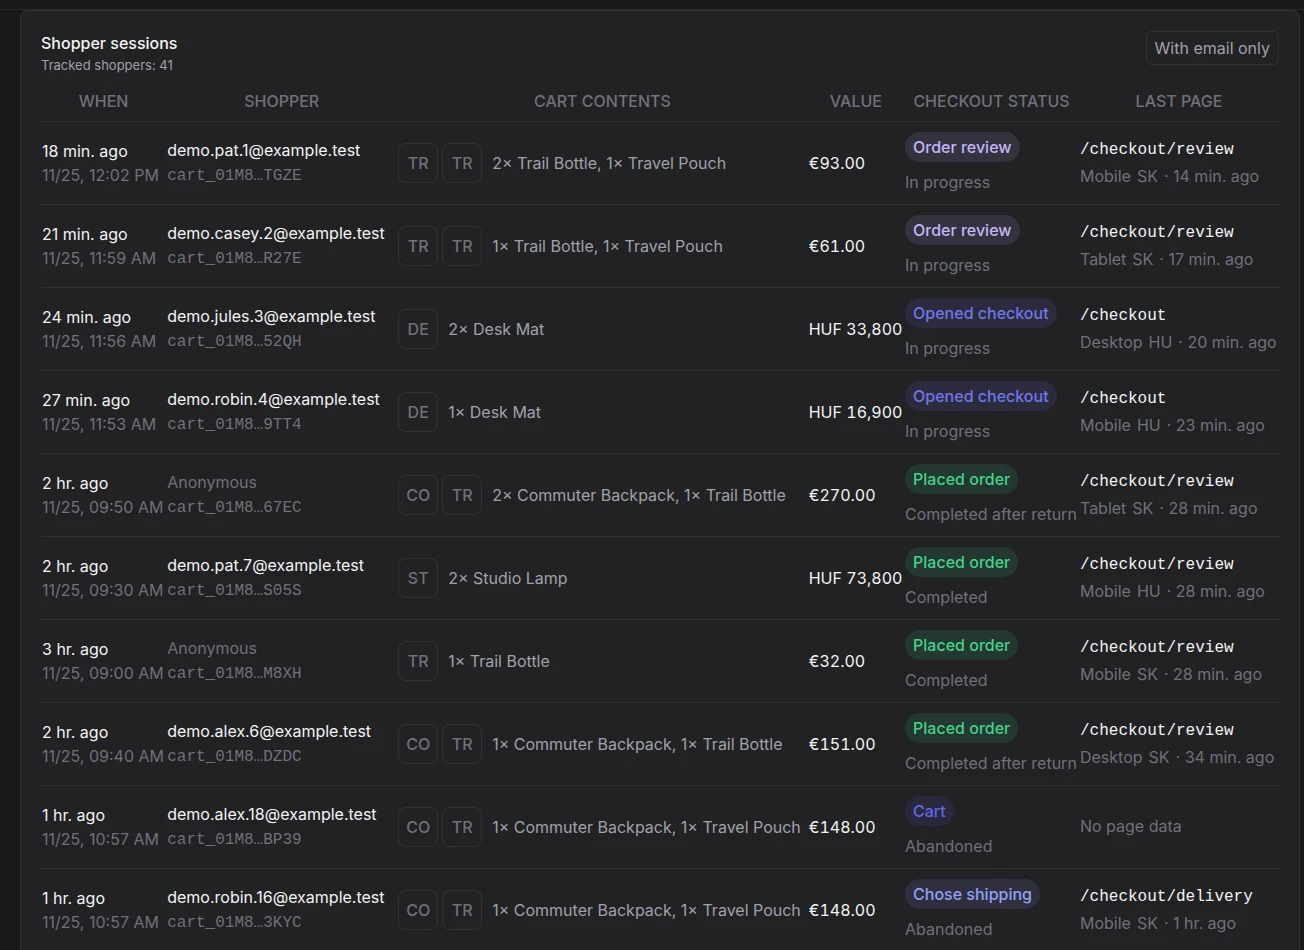
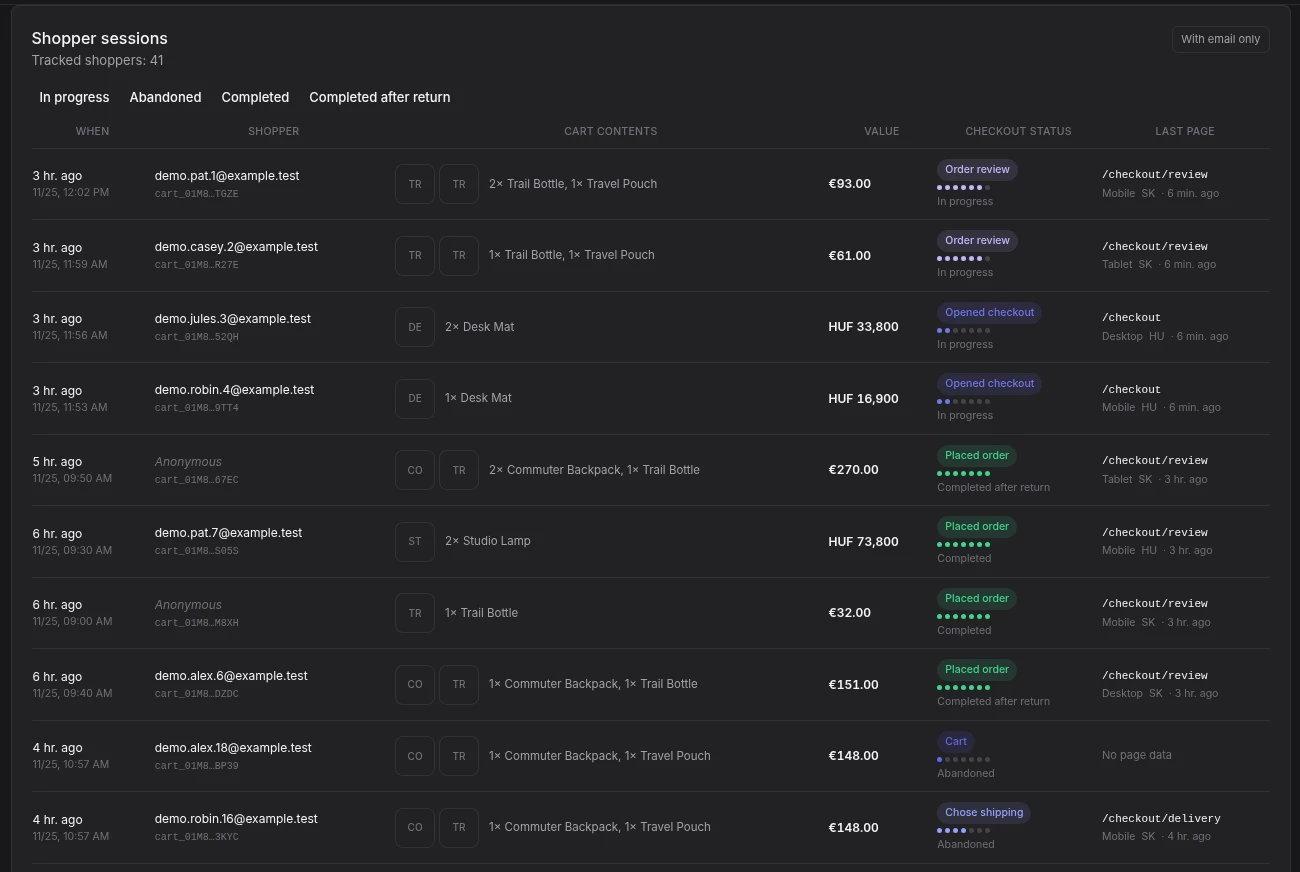
Make checkout sessions easier to triage by status (#6)
* Make checkout sessions easier to triage by status

Combine a localized status filter with the existing funnel and email filters without changing dashboard totals. Preserve diagnostic context for shops that limit raw cart reads.

Tested: 163 unit tests, typecheck, build, package contract and all four statuses in Medusa Admin with Ego Chromium.

* Keep filtered shopper counts explicit and test the filter rules

Match the count and screen-reader summary to the active filters. Verify each status, combined filtering, empty results and reset in a focused unit suite.

---------

diff --git a/src/admin/routes/checkout-tracker/page.tsx b/src/admin/routes/checkout-tracker/page.tsx
@@ -9,10 +9,11 @@ import { useCheckoutTranslation } from "../../lib/checkout-i18n"
 import { Funnel } from "./funnel"
 import { AbandonedProducts, ExitPaths } from "./side-cards"
 import { SaleRecommendations } from "./sale-recommendations"
+import { matchesSessionFilters } from "./session-filters"
 import { SessionTable } from "./session-table"
 import { WinBack } from "./win-back"
 import { formatCount, formatMoney, formatPercent } from "./format"
-import type { Stage, TrackerResponse } from "./types"
+import type { CheckoutStatus, Stage, TrackerResponse } from "./types"
 
 /**
  * Checkout tracker — where shoppers give up between "added to cart" and
@@ -30,6 +31,7 @@ import type { Stage, TrackerResponse } from "./types"
 
 const RANGES = [7, 14, 30, 90] as const
 type RangeDays = (typeof RANGES)[number]
+const SESSION_STATUSES = ["active", "abandoned", "completed", "recovered"] as const
 
 const fetchTracker = async (days: number): Promise<TrackerResponse> => {
   const response = await fetch(
@@ -49,7 +51,7 @@ const Card = ({
   children,
 }: {
   title: string
-  sub: string
+  sub: ReactNode
   action?: ReactNode
   children: ReactNode
 }) => (
@@ -133,6 +135,7 @@ const CheckoutTrackerPage = () => {
   const count = (value: number) => formatCount(value, locale)
   const [days, setDays] = useState<RangeDays>(7)
   const [stageFilter, setStageFilter] = useState<Stage | null>(null)
+  const [statusFilter, setStatusFilter] = useState<CheckoutStatus | null>(null)
   const [onlyContactable, setOnlyContactable] = useState(false)
   const [promotionCode, setPromotionCode] = useState("")
 
@@ -153,12 +156,10 @@ const CheckoutTrackerPage = () => {
   // and the row the operator sees.
   const visitors = useMemo(() => {
     if (!data) return []
-    return data.visitors.filter(({ lead }) => {
-      if (stageFilter && lead.stage !== stageFilter) return false
-      if (onlyContactable && !lead.email) return false
-      return true
-    })
-  }, [data, stageFilter, onlyContactable])
+    return data.visitors.filter((visitor) =>
+      matchesSessionFilters(visitor, stageFilter, statusFilter, onlyContactable)
+    )
+  }, [data, stageFilter, statusFilter, onlyContactable])
 
   const contactable = useMemo(
     () =>
@@ -209,7 +210,9 @@ const CheckoutTrackerPage = () => {
         <>
           {data.scan.capped ? (
             <Notice>
-              {t("sample", { limit: count(data.scan.cap) })}
+              {data.scan.limited_by === "raw_cart_cap" && data.scan.raw_cap !== undefined
+                ? t("rawSample", { limit: count(data.scan.raw_cap) })
+                : t("sample", { limit: count(data.scan.carts) })}
             </Notice>
           ) : null}
 
@@ -318,9 +321,15 @@ const CheckoutTrackerPage = () => {
           <Card
             title={t("sessions")}
             sub={
-              stageFilter
-                ? t("lastStage", { stage: t(`stage.${stageFilter}`), value: count(visitors.length) })
-                : t("allSessions", { value: count(visitors.length) })
+              <span aria-live="polite">
+                {stageFilter
+                  ? t("lastStage", { stage: t(`stage.${stageFilter}`), value: count(visitors.length) })
+                  : statusFilter || onlyContactable
+                    ? count(visitors.length)
+                    : t("allSessions", { value: count(visitors.length) })}
+                {statusFilter ? ` · ${t(`status.${statusFilter}`)}` : null}
+                {onlyContactable ? ` · ${t("emailOnly")}` : null}
+              </span>
             }
             action={
               <button
@@ -337,6 +346,20 @@ const CheckoutTrackerPage = () => {
               </button>
             }
           >
+            <div role="group" aria-label={t("checkoutStatus")} className="mt-3 flex flex-wrap gap-1">
+              {SESSION_STATUSES.map((status) => (
+                <Button
+                  key={status}
+                  type="button"
+                  size="small"
+                  variant={statusFilter === status ? "secondary" : "transparent"}
+                  aria-pressed={statusFilter === status}
+                  onClick={() => setStatusFilter((current) => current === status ? null : status)}
+                >
+                  {t(`status.${status}`)}
+                </Button>
+              ))}
+            </div>
             <SessionTable visitors={visitors} now={now} />
           </Card>
 

diff --git a/src/admin/routes/checkout-tracker/__tests__/session-filters.unit.spec.ts b/src/admin/routes/checkout-tracker/__tests__/session-filters.unit.spec.ts
@@ -1,0 +1,31 @@
+import { matchesSessionFilters } from "../session-filters"
+import type { CheckoutStatus, SessionRow } from "../types"
+
+const visitor = (status: CheckoutStatus, stage: SessionRow["stage"], email: string | null) =>
+  ({ status, lead: { stage, email } })
+
+const visitors = [
+  visitor("active", "review", "active@example.test"),
+  visitor("abandoned", "delivery", "abandoned@example.test"),
+  visitor("abandoned", "delivery", null),
+  visitor("abandoned", "cart", "cart@example.test"),
+  visitor("completed", "completed", "completed@example.test"),
+  visitor("recovered", "completed", "recovered@example.test"),
+]
+
+test.each(["active", "abandoned", "completed", "recovered"] as const)(
+  "matches only %s when it is selected without a stage or email filter",
+  (status) => {
+    expect(visitors.filter((row) => matchesSessionFilters(row, null, status, false)))
+      .toEqual(visitors.filter((row) => row.status === status))
+  }
+)
+
+test("combines the last stage, status and email filters without changing unfiltered rows", () => {
+  expect(visitors.filter((row) => matchesSessionFilters(row, "delivery", "abandoned", true)))
+    .toEqual([visitors[1]])
+  expect(visitors.filter((row) => matchesSessionFilters(row, "delivery", "recovered", true)))
+    .toEqual([])
+  expect(visitors.filter((row) => matchesSessionFilters(row, null, null, false)))
+    .toEqual(visitors)
+})

diff --git a/src/admin/routes/checkout-tracker/types.ts b/src/admin/routes/checkout-tracker/types.ts
@@ -100,7 +100,14 @@ export type TrackerResponse = {
   abandoned_products: AbandonedProduct[]
   exit_paths: Array<{ path: string; count: number }>
   sale_candidates: SaleCandidate[]
-  scan: { carts: number; cap: number; capped: boolean; orders_capped: boolean }
+  scan: {
+    carts: number
+    cap: number
+    raw_cap?: number
+    limited_by?: "active_cart_cap" | "raw_cart_cap" | null
+    capped: boolean
+    orders_capped: boolean
+  }
 }
 
 export type PromotionPerformance = {

diff --git a/src/admin/routes/checkout-tracker/session-filters.ts b/src/admin/routes/checkout-tracker/session-filters.ts
@@ -1,0 +1,11 @@
+import type { CheckoutStatus, SessionRow, Stage } from "./types"
+
+export const matchesSessionFilters = (
+  visitor: { status: CheckoutStatus; lead: Pick<SessionRow, "stage" | "email"> },
+  stage: Stage | null,
+  status: CheckoutStatus | null,
+  emailOnly: boolean
+): boolean =>
+  (!stage || visitor.lead.stage === stage) &&
+  (!status || visitor.status === status) &&
+  (!emailOnly || Boolean(visitor.lead.email))

diff --git a/README.md b/README.md
@@ -109,6 +109,9 @@ counts shoppers rather than add events; active carts are not treated as abandonm
 
 The demo includes active, abandoned, completed, and completed-after-return
 sessions, plus anonymous shoppers and carts without page-level observations.
+Select a checkout status to narrow the list, or select it again to clear it.
+Status, funnel stage, and **With email only** can be combined; the overview
+totals still describe the full date range.
 
 ---
 
